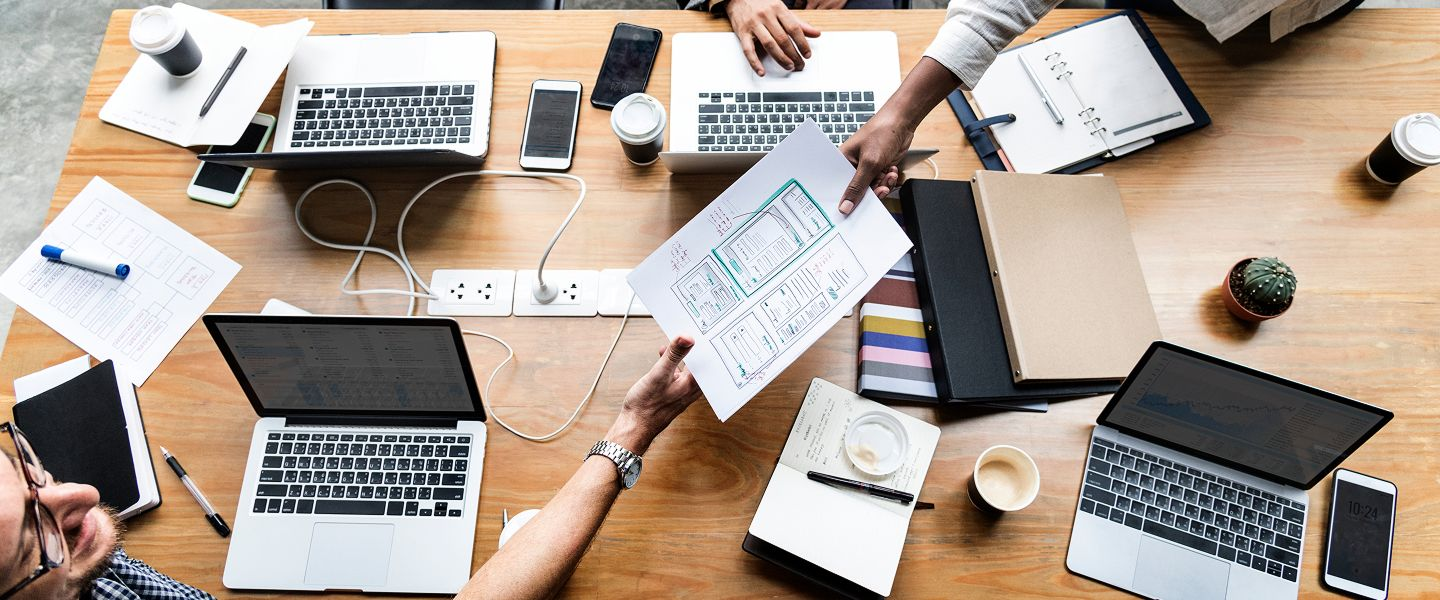
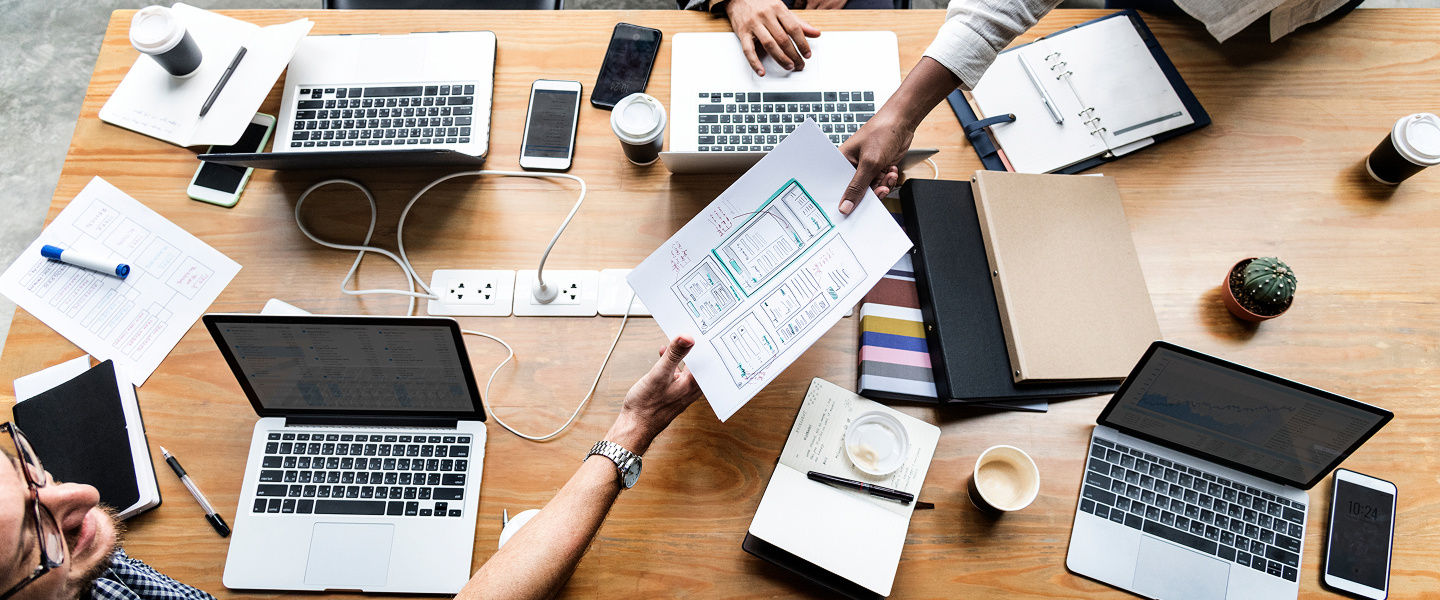
Add anchor links to navigation, improve hero image quality

diff --git a/index.html b/index.html
@@ -29,9 +29,9 @@
           </a>
 
           <ul class="nav-list">
-            <li><a href="./index.html" class="nav-link">Features</a></li>
-            <li><a href="#" class="nav-link">Team</a></li>
-            <li><a href="#" class="nav-link">Portfolio</a></li>
+            <li><a href="#features" class="nav-link">Features</a></li>
+            <li><a href="#team" class="nav-link">Team</a></li>
+            <li><a href="#portfolio" class="nav-link">Portfolio</a></li>
           </ul>
         </nav>
 
@@ -62,7 +62,7 @@
       </section>
 
       <!-- FEATURES -->
-      <section class="features">
+      <section class="features" id="features">
         <div class="container">
           <h2 class="visually-hidden">Features</h2>
 
@@ -120,7 +120,7 @@
       </section>
 
       <!-- TEAM -->
-      <section class="team">
+      <section class="team" id="team">
         <div class="container">
           <h2 class="section-title">Our Team</h2>
 
@@ -301,7 +301,7 @@
       </section>
 
       <!-- PORTFOLIO -->
-      <section class="portfolio">
+      <section class="portfolio" id="portfolio">
         <div class="container">
           <h2 class="section-title">Our Portfolio</h2>
 
